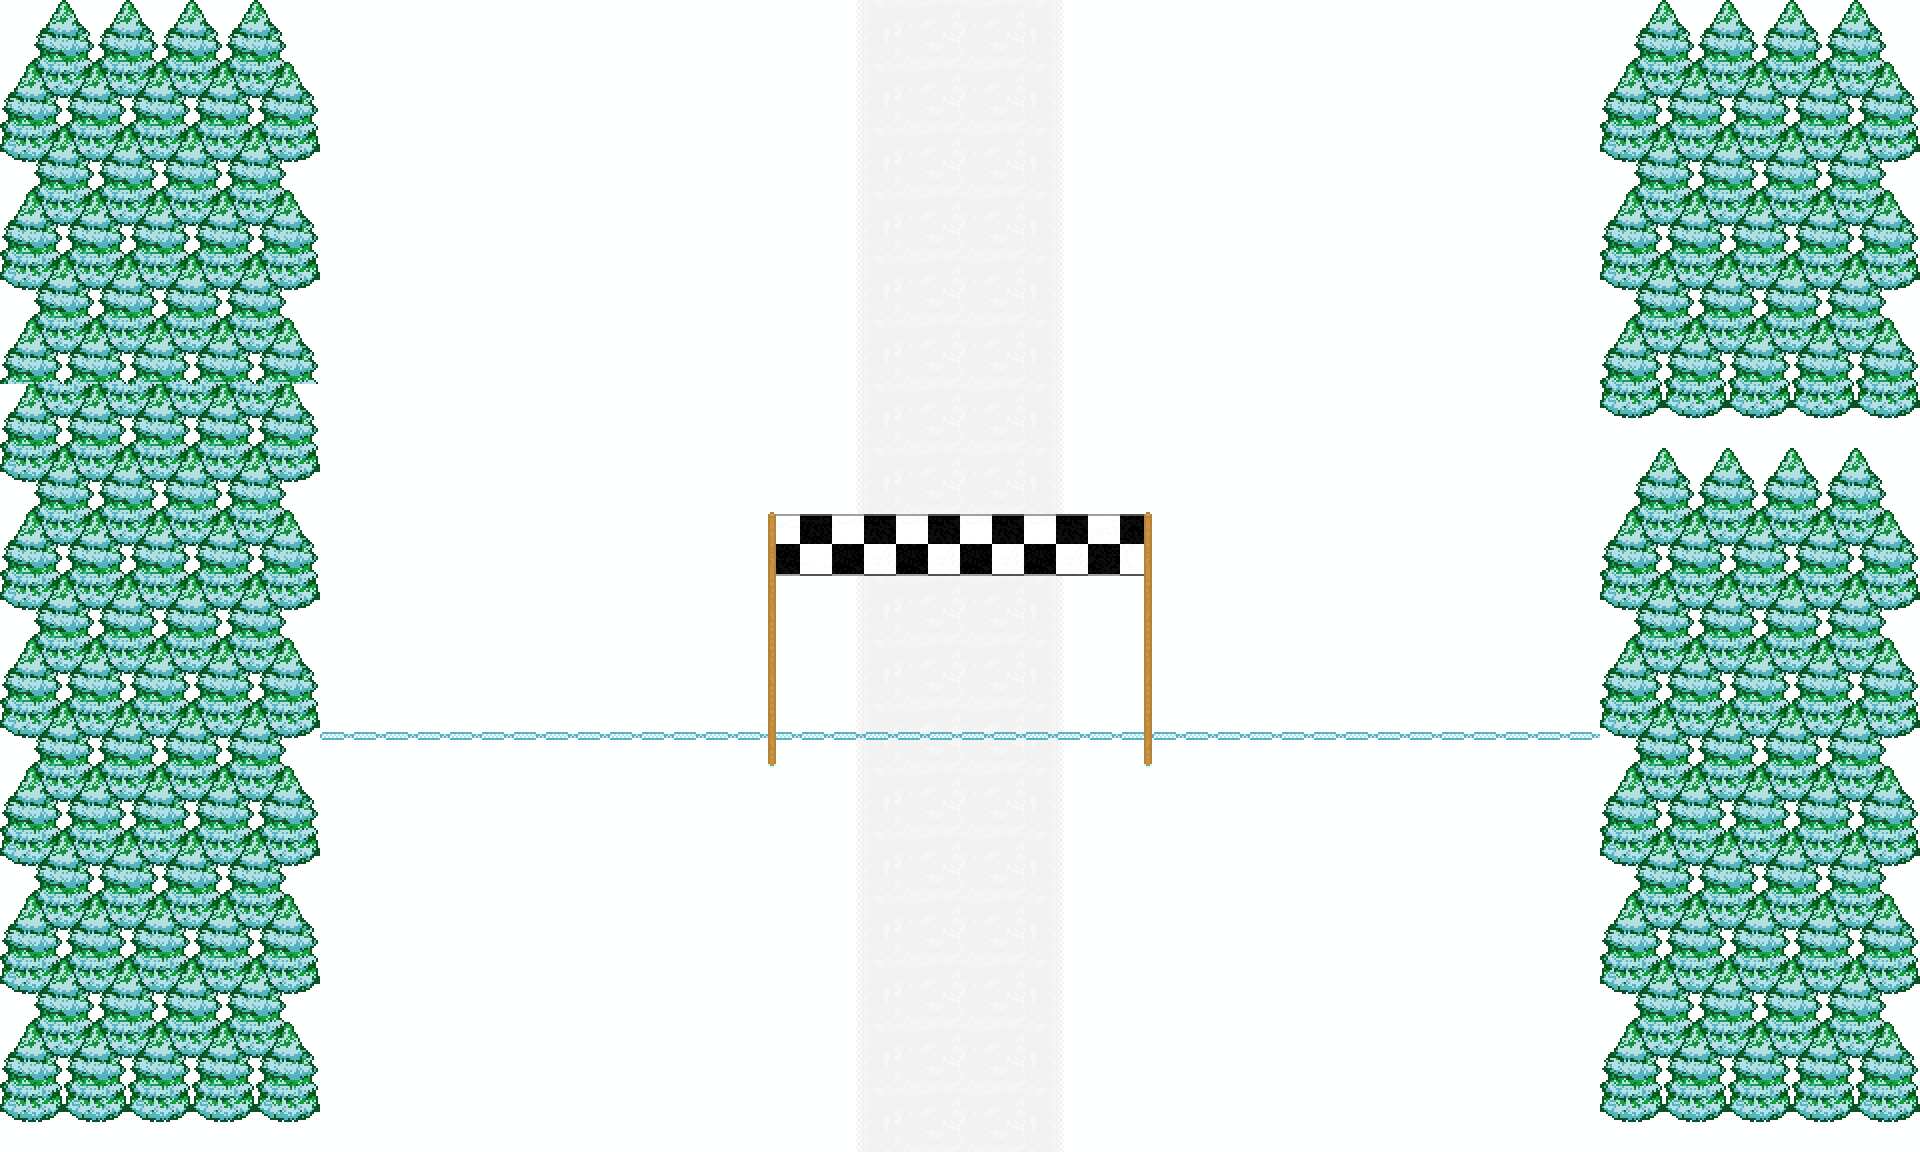
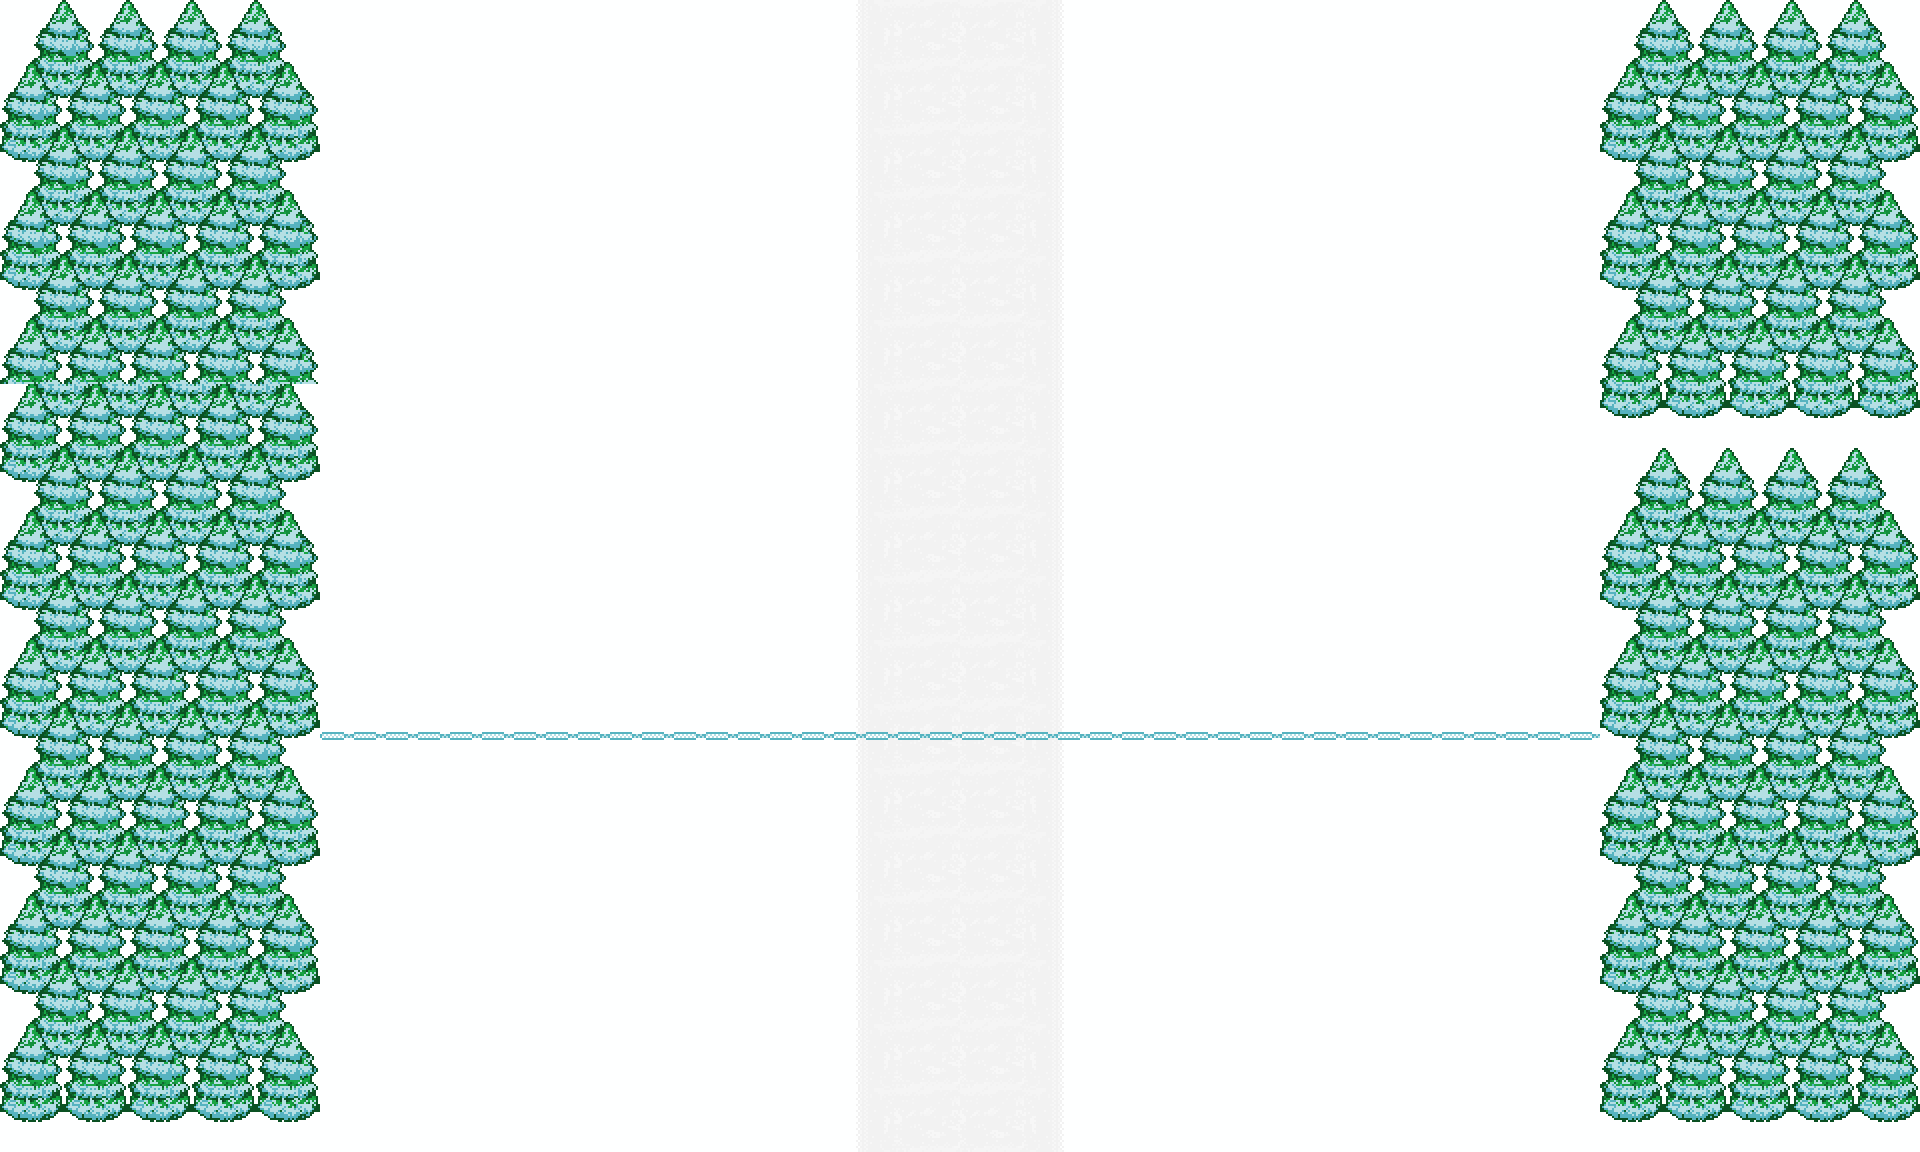
Add support for foreground layers

Changed region(s): [[0.375, 0.4375, 0.625, 0.6562]]

diff --git a/Assets/Maps/Tilesets/BackgroundTileset.tsx b/Assets/Maps/Tilesets/BackgroundTileset.tsx
@@ -1,4 +1,4 @@
 <?xml version="1.0" encoding="UTF-8"?>
-<tileset version="1.9" tiledversion="1.9.2" name="BackgroundTileset" tilewidth="64" tileheight="64" tilecount="273" columns="21">
- <image source="BackgroundTileset.png" width="1344" height="832"/>
+<tileset version="1.9" tiledversion="1.9.2" name="BackgroundTileset" tilewidth="64" tileheight="64" tilecount="299" columns="23">
+ <image source="BackgroundTileset.png" width="1472" height="832"/>
 </tileset>

diff --git a/Src/EndlessRacer/Environment/LevelImporter.cs b/Src/EndlessRacer/Environment/LevelImporter.cs
@@ -10,7 +10,10 @@ namespace EndlessRacer.Environment
     {
         private const string BasePath = "Maps/";
         private const string BackgroundExtension = "_bg";
+        private const string ForegroundExtension = "_fg";
         private const string CollisionExtension = "_collision";
+
+        public const string FinishLine = "FinishLine";
 
         private static readonly string[][] CareerLevels = new[]
         {
@@ -45,7 +48,7 @@ namespace EndlessRacer.Environment
             new Tuple<string, CrossingPoint, CrossingPoint>("RC_02", CrossingPoint.Right, CrossingPoint.Center),
 
             // special
-            new Tuple<string, CrossingPoint, CrossingPoint>("FinishLine", CrossingPoint.Center, CrossingPoint.Center),
+            new Tuple<string, CrossingPoint, CrossingPoint>(FinishLine, CrossingPoint.Center, CrossingPoint.Center),
         };
 
         public static List<LevelSegmentTemplate> ImportCareerLevel(ContentManager content, int levelNumber)
@@ -69,7 +72,14 @@ namespace EndlessRacer.Environment
                     var sprite = content.Load<Texture2D>($"{BasePath}{name}{BackgroundExtension}");
                     var collisionData = content.Load<CollisionData>($"{BasePath}{name}{CollisionExtension}");
 
-                    var template = new LevelSegmentTemplate(entryPoint, exitPoint, sprite, collisionData.ToMultiDimArray());
+                    Texture2D foreground = null;
+
+                    if (name == FinishLine)
+                    {
+                        foreground = content.Load<Texture2D>($"{BasePath}{name}{ForegroundExtension}");
+                    }
+
+                    var template = new LevelSegmentTemplate(entryPoint, exitPoint, sprite, collisionData.ToMultiDimArray(), foreground);
 
                     templates.Add(name, template);
                 }
@@ -99,7 +109,7 @@ namespace EndlessRacer.Environment
                 var (name, entryPoint, exitPoint) = asset;
 
                 // skip finish line in endless
-                if (name == "FinishLine")
+                if (name == FinishLine)
                 {
                     continue;
                 }

diff --git a/Src/EndlessRacer/Environment/LevelSegment.cs b/Src/EndlessRacer/Environment/LevelSegment.cs
@@ -11,15 +11,8 @@ namespace EndlessRacer.Environment
 
         public float GetY => _position.Y;
 
-        public LevelSegment(Vector2 position, CrossingPoint entryPoint, CrossingPoint exitPoint, Texture2D sprite, int[,] specialTileData) :
-            base(entryPoint, exitPoint, sprite, specialTileData)
-        {
-            _position = position;
-            _specialTiles = InitSpecialTiles(specialTileData);
-        }
-
         public LevelSegment(Vector2 position, LevelSegmentTemplate template) :
-            base(template.EntryPoint, template.ExitPoint, template.Sprite, template.SpecialTileData)
+            base(template.EntryPoint, template.ExitPoint, template.Background, template.SpecialTileData, template.Foreground)
         {
             _position = position;
             _specialTiles = InitSpecialTiles(template.SpecialTileData);
@@ -37,7 +30,7 @@ namespace EndlessRacer.Environment
 
         public void Draw(SpriteBatch spriteBatch)
         {
-            spriteBatch.Draw(Sprite, _position, Color.White);
+            spriteBatch.Draw(Background, _position, Color.White);
 
 //#if DEBUG
 //            {
@@ -49,9 +42,17 @@ namespace EndlessRacer.Environment
 //#endif
         }
 
+        public void DrawForeground(SpriteBatch spriteBatch)
+        {
+            if (Foreground != null)
+            {
+                spriteBatch.Draw(Foreground, _position, Color.White);
+            }
+        }
+
         public bool IsOffScreen()
         {
-            return _position.Y < - Sprite.Height;
+            return _position.Y < - Background.Height;
         }
 
         private SpecialTile[,] InitSpecialTiles(int[,] specialTileData)

diff --git a/Src/EndlessRacer/Environment/LevelSegmentTemplate.cs b/Src/EndlessRacer/Environment/LevelSegmentTemplate.cs
@@ -6,15 +6,17 @@ namespace EndlessRacer.Environment
     {
         public CrossingPoint EntryPoint { get; init; }
         public CrossingPoint ExitPoint { get; init; }
-        public Texture2D Sprite { get; init; }
+        public Texture2D Background { get; init; }
+        public Texture2D Foreground { get; init; }
         public int[,] SpecialTileData { get; init; }
 
-        public LevelSegmentTemplate(CrossingPoint entryPoint, CrossingPoint exitPoint, Texture2D sprite, int[,] specialTileData)
+        public LevelSegmentTemplate(CrossingPoint entryPoint, CrossingPoint exitPoint, Texture2D background, int[,] specialTileData, Texture2D foreground=null)
         {
             EntryPoint = entryPoint;
             ExitPoint = exitPoint;
-            Sprite = sprite;
+            Background = background;
             SpecialTileData = specialTileData;
+            Foreground = foreground;
         }
     }
 }

diff --git a/Src/EndlessRacer/Environment/Level.cs b/Src/EndlessRacer/Environment/Level.cs
@@ -23,5 +23,13 @@ internal abstract class Level
         }
     }
 
+    public void DrawForeground(SpriteBatch spriteBatch)
+    {
+        foreach (var segment in Segments)
+        {
+            segment.DrawForeground(spriteBatch);
+        }
+    }
+
     public abstract void Update(float scrollSpeed, Player player);
 }

diff --git a/Src/EndlessRacer/Endless/EndlessMode.cs b/Src/EndlessRacer/Endless/EndlessMode.cs
@@ -54,6 +54,7 @@ namespace EndlessRacer.Endless
             // ---
             _level.Draw(Game.SpriteBatch);
             _player.Draw(Game.SpriteBatch);
+            _level.DrawForeground(Game.SpriteBatch);
             // ---
             Game.SpriteBatch.End();
         }

diff --git a/Src/EndlessRacer/Career/CareerLevelMode.cs b/Src/EndlessRacer/Career/CareerLevelMode.cs
@@ -67,6 +67,7 @@ namespace EndlessRacer.Career
             // ---
             _level.Draw(Game.SpriteBatch);
             _player.Draw(Game.SpriteBatch);
+            _level.DrawForeground(Game.SpriteBatch);
             // ---
             Game.SpriteBatch.End();
         }
